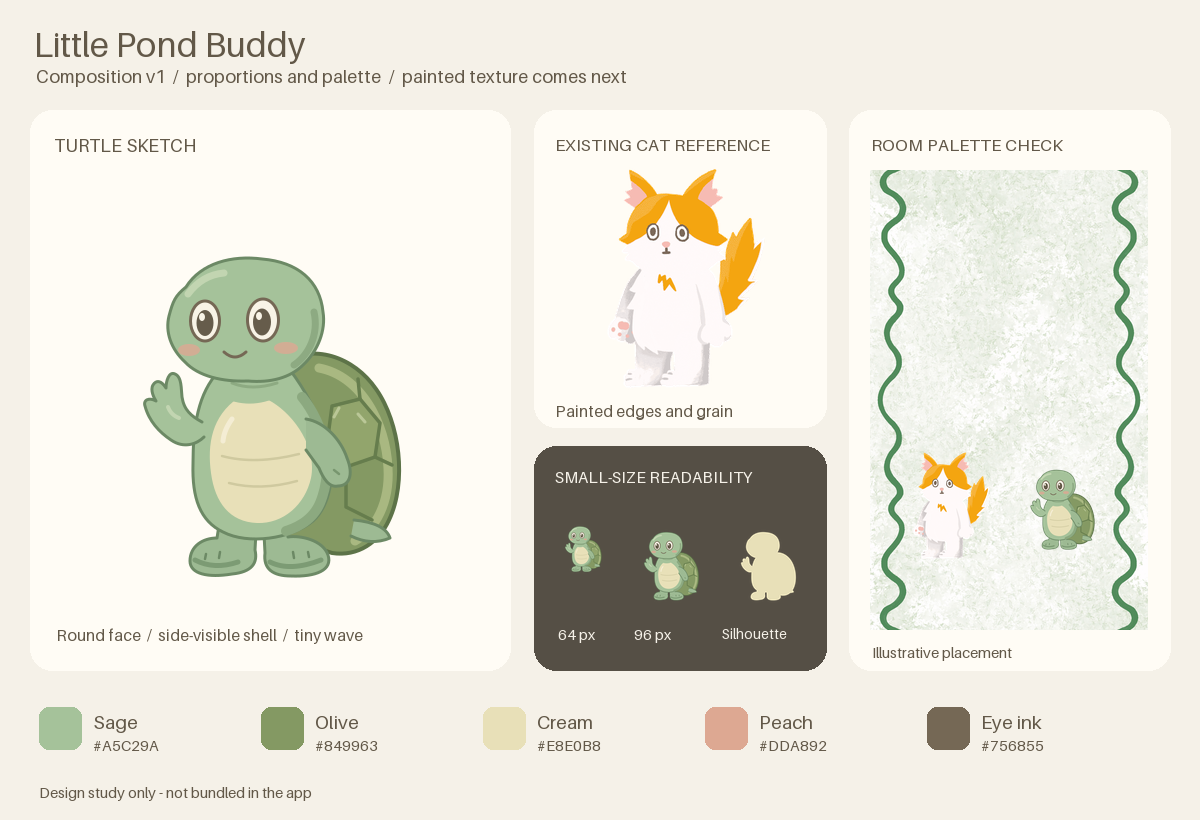
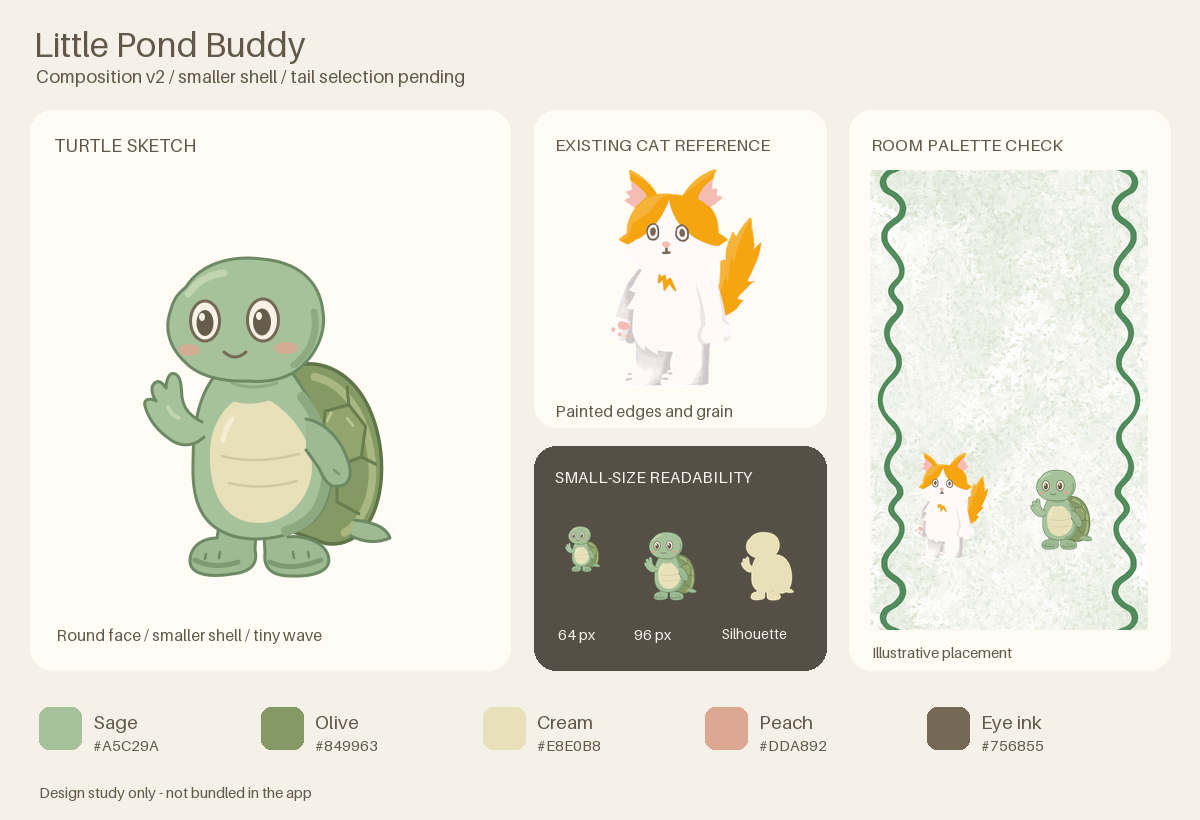
docs(art): refine turtle shell and explore tails
- Reduce the shell and refresh the composition review.
- Add three tail studies for the owner to compare.

diff --git a/design/pet_sketches/turtle_pond_buddy/README.md b/design/pet_sketches/turtle_pond_buddy/README.md
@@ -1,7 +1,9 @@
 # Little Pond Buddy
 
-Concept selected with the owner on 2026-10-04. Composition sketch v1 awaits
-visual review; it is not production pet art.
+Concept selected with the owner on 2026-10-04. On 2026-10-05 the owner requested
+a smaller shell and a more distinctive tail. Composition sketch v2 reduces shell
+width by 16% and height by 10%; tail selection and visual review remain pending.
+These are composition studies, not production pet art.
 
 ## Character brief
 
@@ -21,6 +23,12 @@ visual review; it is not production pet art.
 - [Editable composition](turtle_pond_buddy.svg)
 - [Transparent 450 × 450 render](turtle_pond_buddy.png)
 - [Comparison and small-size review](review.png)
+- [Tail alternatives on the smaller-shell composition](tail_options.png)
+
+Tail alternatives are A: leaf-shaped, B: curved droplet, C: soft curl. These
+explore silhouette only; none has been selected. Each tail originates behind the
+lower torso. Leaf-shaped means the tail's own shape, not an attached plant.
+Editable studies: [A](tail_leaf.svg), [B](tail_droplet.svg), [C](tail_curl.svg).
 
 The review compares the sketch with the shipped cat and shows both on the
 existing free room background. The 64 px and 96 px views are readability probes,

diff --git a/memory-bank/progress.md b/memory-bank/progress.md
@@ -11,8 +11,8 @@ Current baseline and where live state is recorded. Full snapshots live in
   in 4.0.0), with `new_until` 2026-11-01.
 - Pet rendering prefers PNG sequences; Chicken is visible from `2.3.0`.
 - Turtle concept selected: [Little Pond Buddy](../design/pet_sketches/turtle_pond_buddy/README.md),
-  an upright pond turtle. Composition review is pending; production art and
-  rollout have not started.
+  an upright pond turtle. Smaller shell requested on 2026-10-05; tail selection
+  and composition review are pending. Production art and rollout have not started.
 - Behaviour and contracts live in their canonical sources: architecture,
   schema, and UI in this folder; runbooks under `docs/`.
 
